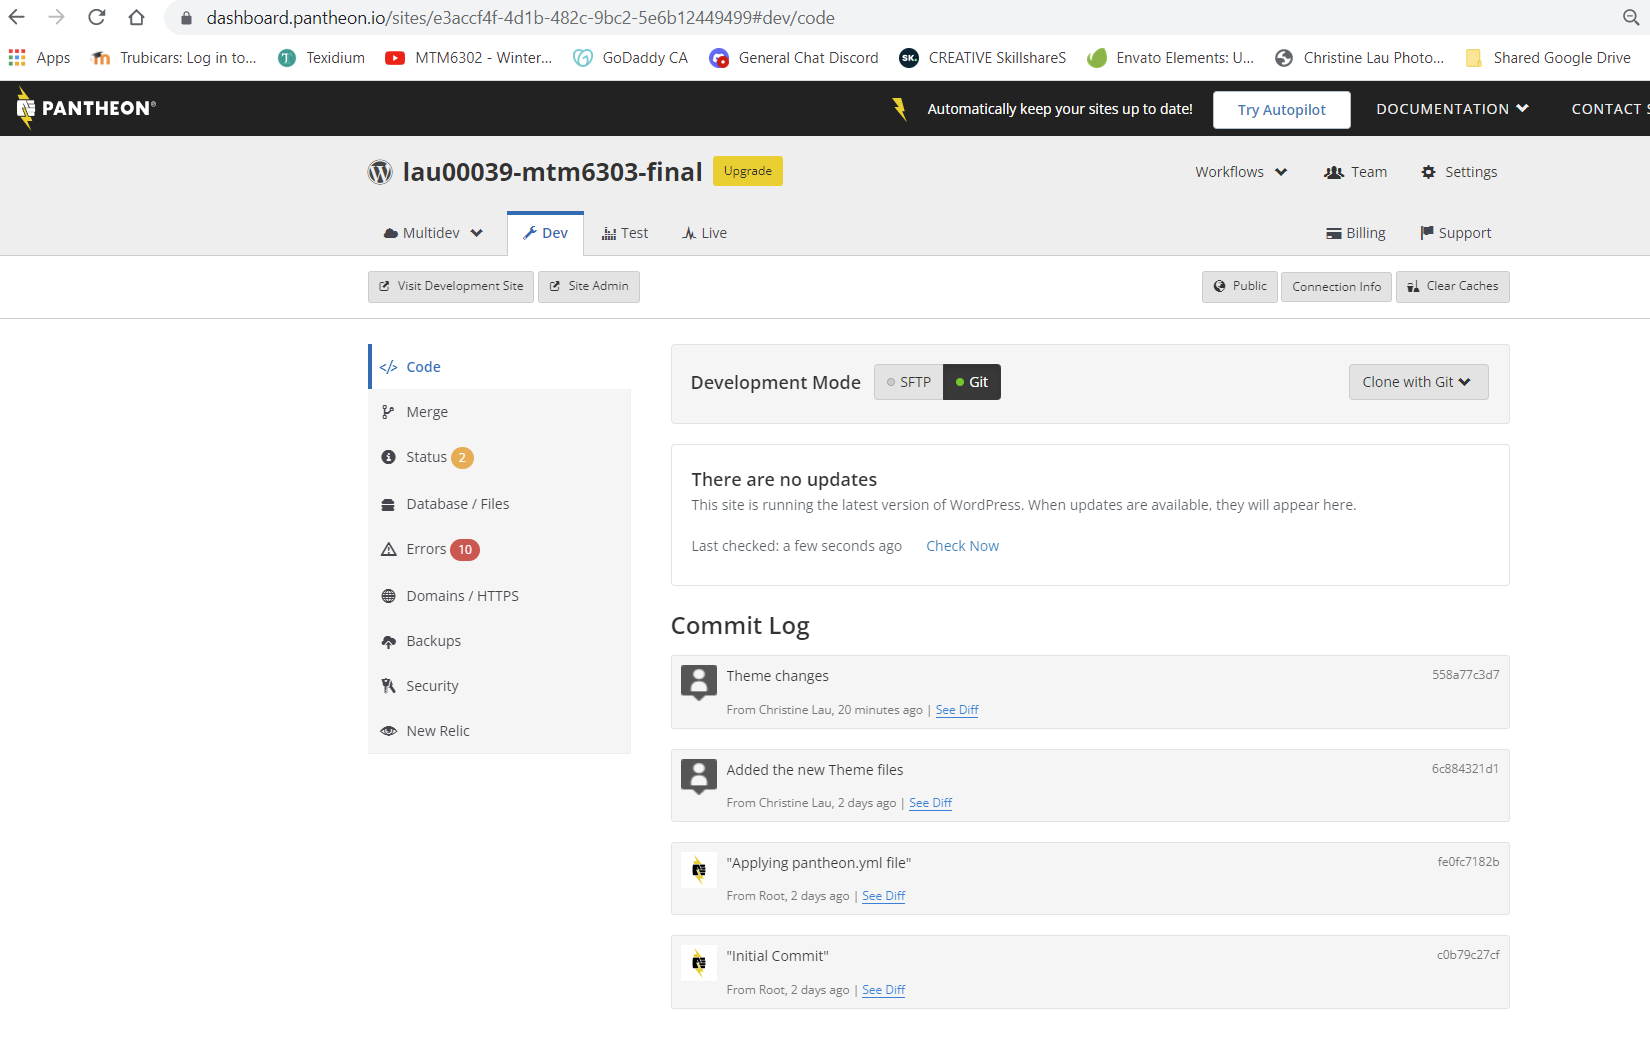
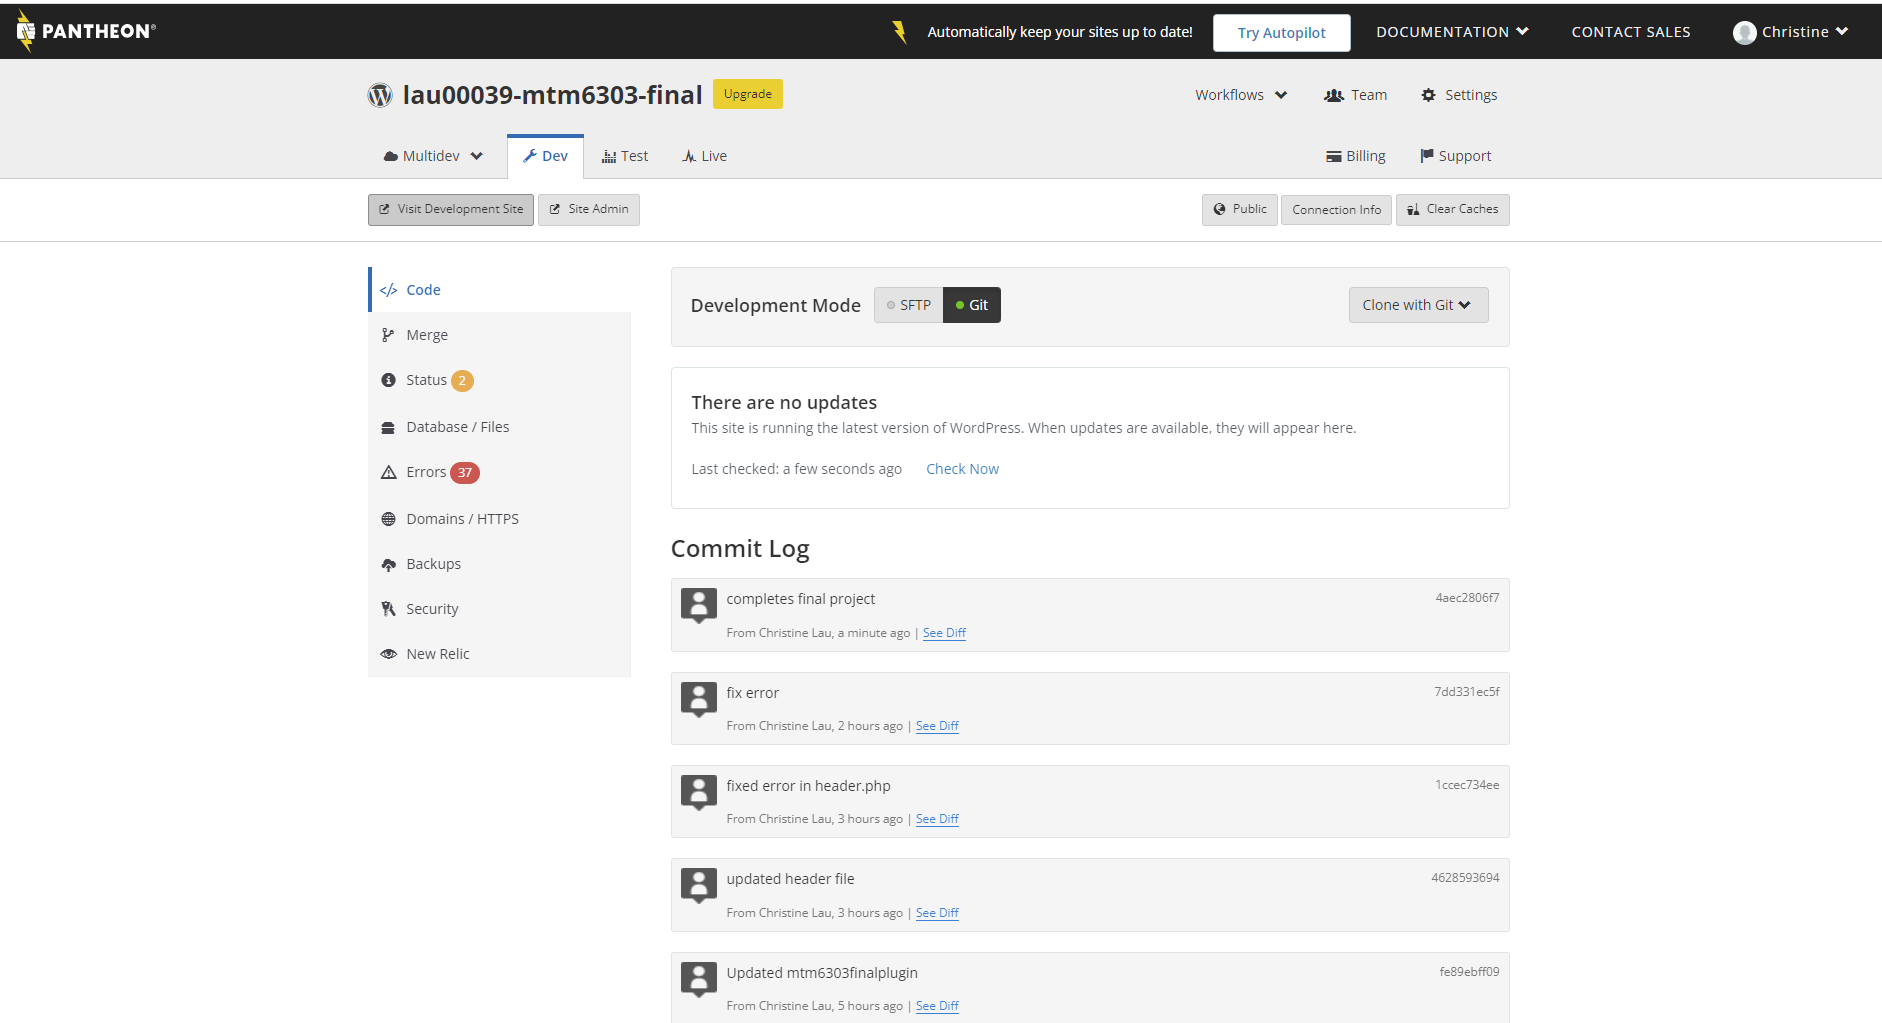
complete final project

diff --git a/final/site/theme/header.php b/final/site/theme/header.php
@@ -25,10 +25,19 @@
 <!--[if !(IE 6) & !(IE 7) & !(IE 8)]><!-->
 <html <?php language_attributes(); ?>>
 <!--<![endif]-->
+
+
 <head>
-<meta charset="<?php bloginfo( 'charset' ); ?>" />
-<meta name="viewport" content="width=device-width" />
-<title><?php
+  <meta charset="UTF-8">
+  <meta content="IE=edge" http-equiv="X-UA-Compatible">
+  <meta content="width=device-width,initial-scale=1" name="viewport">
+  <meta content="description" name="description">
+  <meta name="google" content="notranslate" />
+  <meta content="Mashup templates have been developped by Orson.io team" name="author">
+
+  <meta charset="<?php bloginfo( 'charset' ); ?>" />
+  <meta name="viewport" content="width=device-width" />
+  <title><?php
 	// Print the <title> tag based on what is being viewed.
 	global $page, $paged;
 
@@ -47,18 +56,6 @@
 		echo esc_html( ' | ' . sprintf( __( 'Page %s', 'twentyeleven' ), max( $paged, $page ) ) );
 
 	?></title>
-
-<!DOCTYPE html>
-<html lang="en">
-
-<head>
-  <meta charset="UTF-8">
-  <meta content="IE=edge" http-equiv="X-UA-Compatible">
-  <meta content="width=device-width,initial-scale=1" name="viewport">
-  <meta content="description" name="description">
-  <meta name="google" content="notranslate" />
-  <meta content="Mashup templates have been developped by Orson.io team" name="author">
-
   <!-- Disable tap highlight on IE -->
   <meta name="msapplication-tap-highlight" content="no">
   
@@ -91,9 +88,9 @@
 
       <div class="collapse navbar-collapse" id="navbar-collapse-uarr">
         <ul class="nav navbar-nav navbar-right">
-          <!-- <li><a href="<?php echo get_stylesheet_directory_uri() ?>./index.html" title="" class="active">Home</a></li>
-          <li><a href="<?php echo get_stylesheet_directory_uri() ?>./page.html" title=""> About</a></li>
-          <li><a href="<?php echo get_stylesheet_directory_uri() ?>./contact.html" title=""> Contact Us </a></li> -->
+          <li><a href="/" title="" class="active">Home</a></li>
+          <li><a href="/about-us" title="">About</a></li>
+          <li><a href="/contact-us" title=""> Contact Us</a></li> -->
           <?php 
             $menu_items = mtm6303final_getnav("top");
 
@@ -104,7 +101,7 @@
           <!-- <li ><a href="<?php echo $menu_item['url'] ?>" title="" class="<?php ($menu_item["active"]) ? "active" : "" ?>"><?php echo $menu_item["title"] ?>
         </a>
         </li> -->
-          <?
+          <?php
 
             }
           ?>

diff --git a/final/site/theme/front-page.php b/final/site/theme/front-page.php
@@ -1,0 +1,61 @@
+<?php
+/**
+ * Front Page Template
+ *
+ * This is the most generic template file in a WordPress theme
+ * and one of the two required files for a theme (the other being style.css).
+ * It is used to display a page when nothing more specific matches a query.
+ * E.g., it puts together the home page when no home.php file exists.
+ * Learn more: https://codex.wordpress.org/Template_Hierarchy
+ *
+ * @package WordPress
+ * @subpackage MTM6303 Final
+ */
+
+  get_header(); ?> 
+
+<div class="white-text-container background-image-container" style="background-image: url('<?php echo get_stylesheet_directory_uri() ?>./assets/images/img-home.jpg')">
+    <div class="opacity"></div>
+    <div class="container">
+        <div class="row">
+           
+            <div class="col-md-6">
+                <h1>
+                    <?php echo get_the_title();?>    
+                </h1>
+
+                <?php
+			while ( have_posts() ) : the_post();
+
+				get_template_part( 'template-parts/page/content', 'front-page' );
+
+
+			endwhile; // End of the loop.
+			?>
+
+                <!-- <p>Lorem ipsum dolor sit amet, consectetur adipiscing elit, sed do eiusmod tempor incididunt ut labore
+                    et dolore magna aliqua. Adipiscing commodo elit at imperdiet dui accumsan sit. Ipsum dolor sit
+                    amet consectetur adipiscing elit. </p> -->
+                 <a href="./about.html" title="" class="btn btn-lg btn-primary">About Us</a>
+            </div>
+
+        </div>
+    </div>
+</div>
+
+<div class="section-container background-color-container white-text-container">
+    <div class="container">
+        <div class="row">
+            <div class="col-xs-12">
+                <div class="text-center">
+                    <h2>Vivamus laoreet</h2>
+                    <p> Auctor augue mauris augue neque. Posuere lorem ipsum dolor sit amet consectetur adipiscing. Porta non
+                        pulvinar neque laoreet. Viverra ipsum nunc aliquet bibendum. Iaculis urna id volutpat lacus. Turpis
+                        egestas pretium aenean pharetra magna ac. Id cursus metus aliquam eleifend mi. </p>
+                </div>
+            </div>
+        </div>
+     </div>
+ </div>
+
+<?php get_footer(); ?> 

diff --git a/final/site/theme/template-parts/page/content-contact.php b/final/site/theme/template-parts/page/content-contact.php
@@ -16,7 +16,7 @@
     <div class="container">
         <div class="row">
             <div class="col-xs-12">
-                <img class="img-responsive" src="/assets/images/contact.jpg">
+                <img class="img-responsive" src="<?php echo get_stylesheet_directory_uri() ?>/assets/images/contact.jpg">
             </div>
             <div class="col-xs-12">
 

diff --git a/final/site/theme/page.php b/final/site/theme/page.php
@@ -15,8 +15,9 @@
  * @version 1.0
  */
 
-get_header(); ?>
+get_header(); 
 
+?>
 
 <div class="wrap">
 	<div id="primary" class="content-area">
